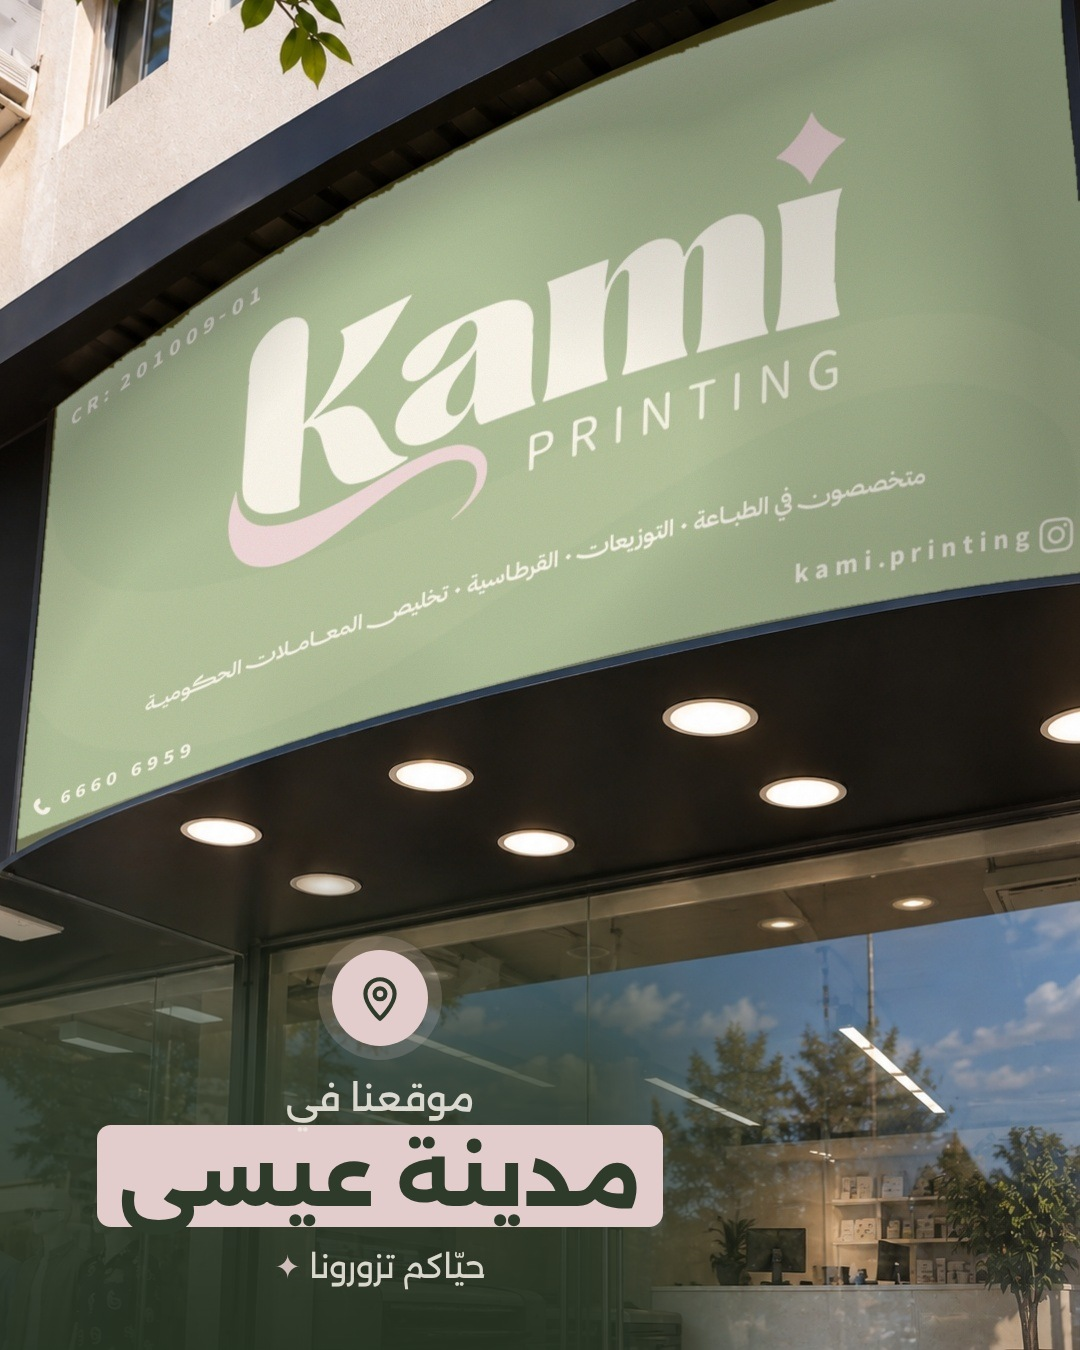
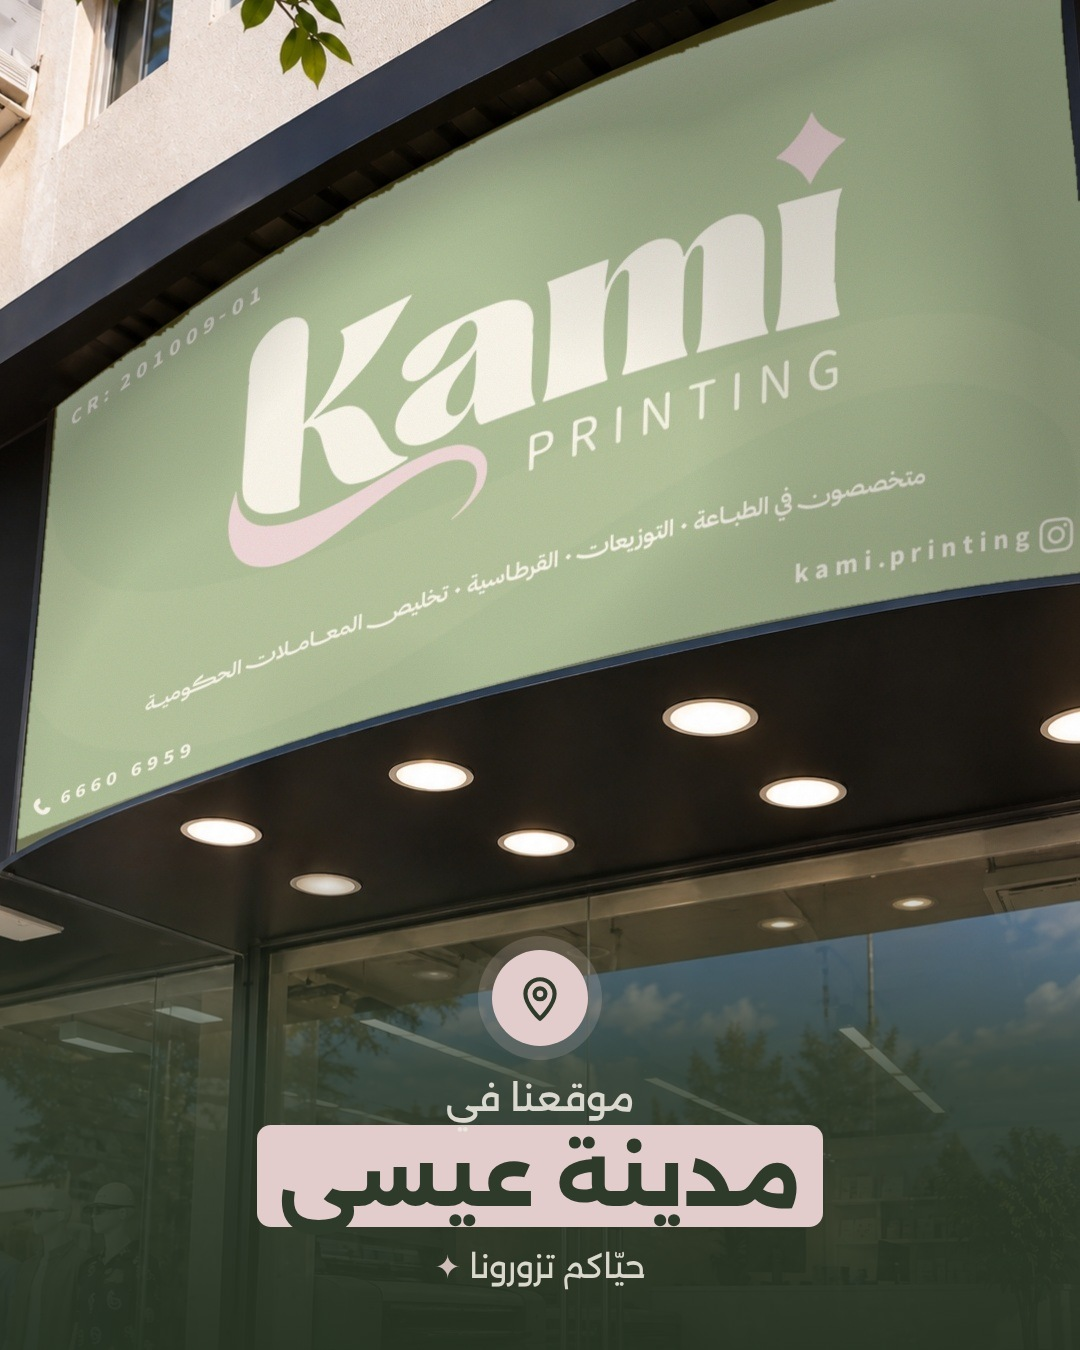
Center location text on shopfront post
Claude-Session: https://claude.ai/code/session_01EDga3H3JwjYFACotr7MsqH

Changed region(s): [[0.0917, 0.6533, 1.0, 1.0]]

diff --git a/storefront/storefront2.html b/storefront/storefront2.html
@@ -11,9 +11,9 @@ body{background:#888;display:flex;flex-wrap:wrap;gap:30px;padding:30px;font-fami
 .post{flex:none;position:relative;overflow:hidden;background:#000 center/cover no-repeat;color:var(--cream)}
 #post{width:1080px;height:1350px;background-image:url(kami-shopfront-clean.jpg)}
 #story{width:1080px;height:1920px;background-image:url(photo-9x16.jpg)}
-.shade{position:absolute;left:0;width:820px;bottom:0;-webkit-mask-image:linear-gradient(to right,#000 72%,transparent);mask-image:linear-gradient(to right,#000 72%,transparent);background:linear-gradient(to bottom,rgba(46,59,42,0) 0%,rgba(46,59,42,.82) 45%,rgba(38,50,34,.96) 100%)}
+.shade{position:absolute;left:0;right:0;bottom:0;background:linear-gradient(to bottom,rgba(46,59,42,0) 0%,rgba(46,59,42,.82) 45%,rgba(38,50,34,.96) 100%)}
 #post .shade{height:500px} #story .shade{height:560px}
-.loc{position:absolute;left:80px;width:600px;display:flex;flex-direction:column;align-items:center;text-align:center}
+.loc{position:absolute;left:0;right:0;display:flex;flex-direction:column;align-items:center;text-align:center}
 #post .loc{bottom:64px} #story .loc{bottom:150px}
 .pin{width:96px;height:96px;border-radius:50%;background:var(--blush);display:flex;align-items:center;justify-content:center;box-shadow:0 0 0 14px rgba(226,205,204,.18)}
 .pin svg{width:50px;height:50px;fill:none;stroke:var(--forest);stroke-width:2;stroke-linecap:round;stroke-linejoin:round}
